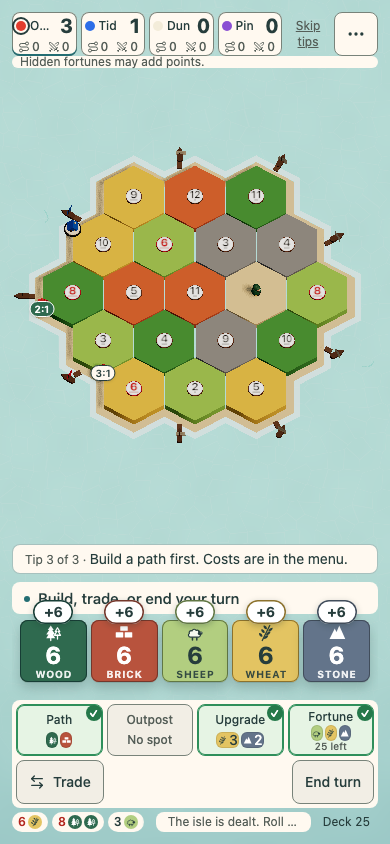
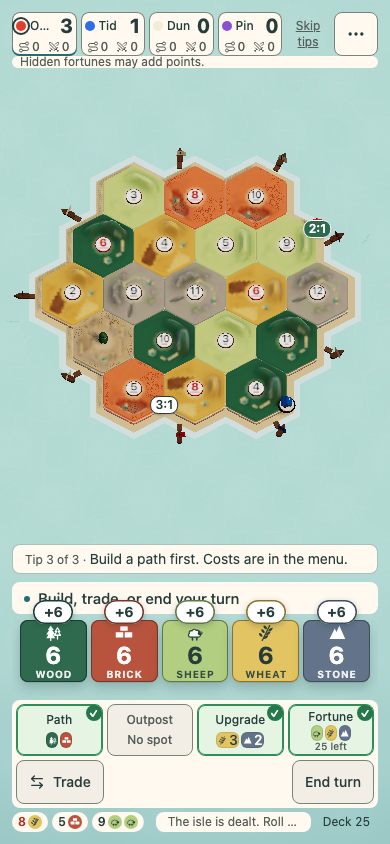
Fix the dock-rate chip size, surface, and name (#560)
The chip is 12 px on the white raised token, and its full words are the accessible name of an image. The proof reads that name from the accessibility tree. Pictures include the sideways phone.

Changed region(s): [[0.0615, 0.1848, 0.8923, 0.5237], [0.1538, 0.955, 0.3077, 0.9858], [0.1538, 0.4313, 0.1846, 0.4621]]

diff --git a/src/components/scene/OwnedDockLabels.tsx b/src/components/scene/OwnedDockLabels.tsx
@@ -20,8 +20,9 @@ export default function OwnedDockLabels({ docks }: { docks: readonly OwnedDockPo
         data-harbor={d.kind}
         data-owner-id={d.owner}
         data-rate={rate}
+        role="img"
         aria-label={phrase(d)}
-        className={"pointer-events-none absolute whitespace-nowrap rounded-control border border-line px-1 py-0.5 text-[10px] font-semibold leading-none shadow-sm" + (good ? "" : " bg-surface text-fg")}
+        className={"pointer-events-none absolute whitespace-nowrap rounded-control border border-line px-1 py-0.5 text-[12px] font-semibold leading-none shadow-sm" + (good ? "" : " bg-raised text-fg")}
         style={{
           left: d.x,
           top: d.y,
